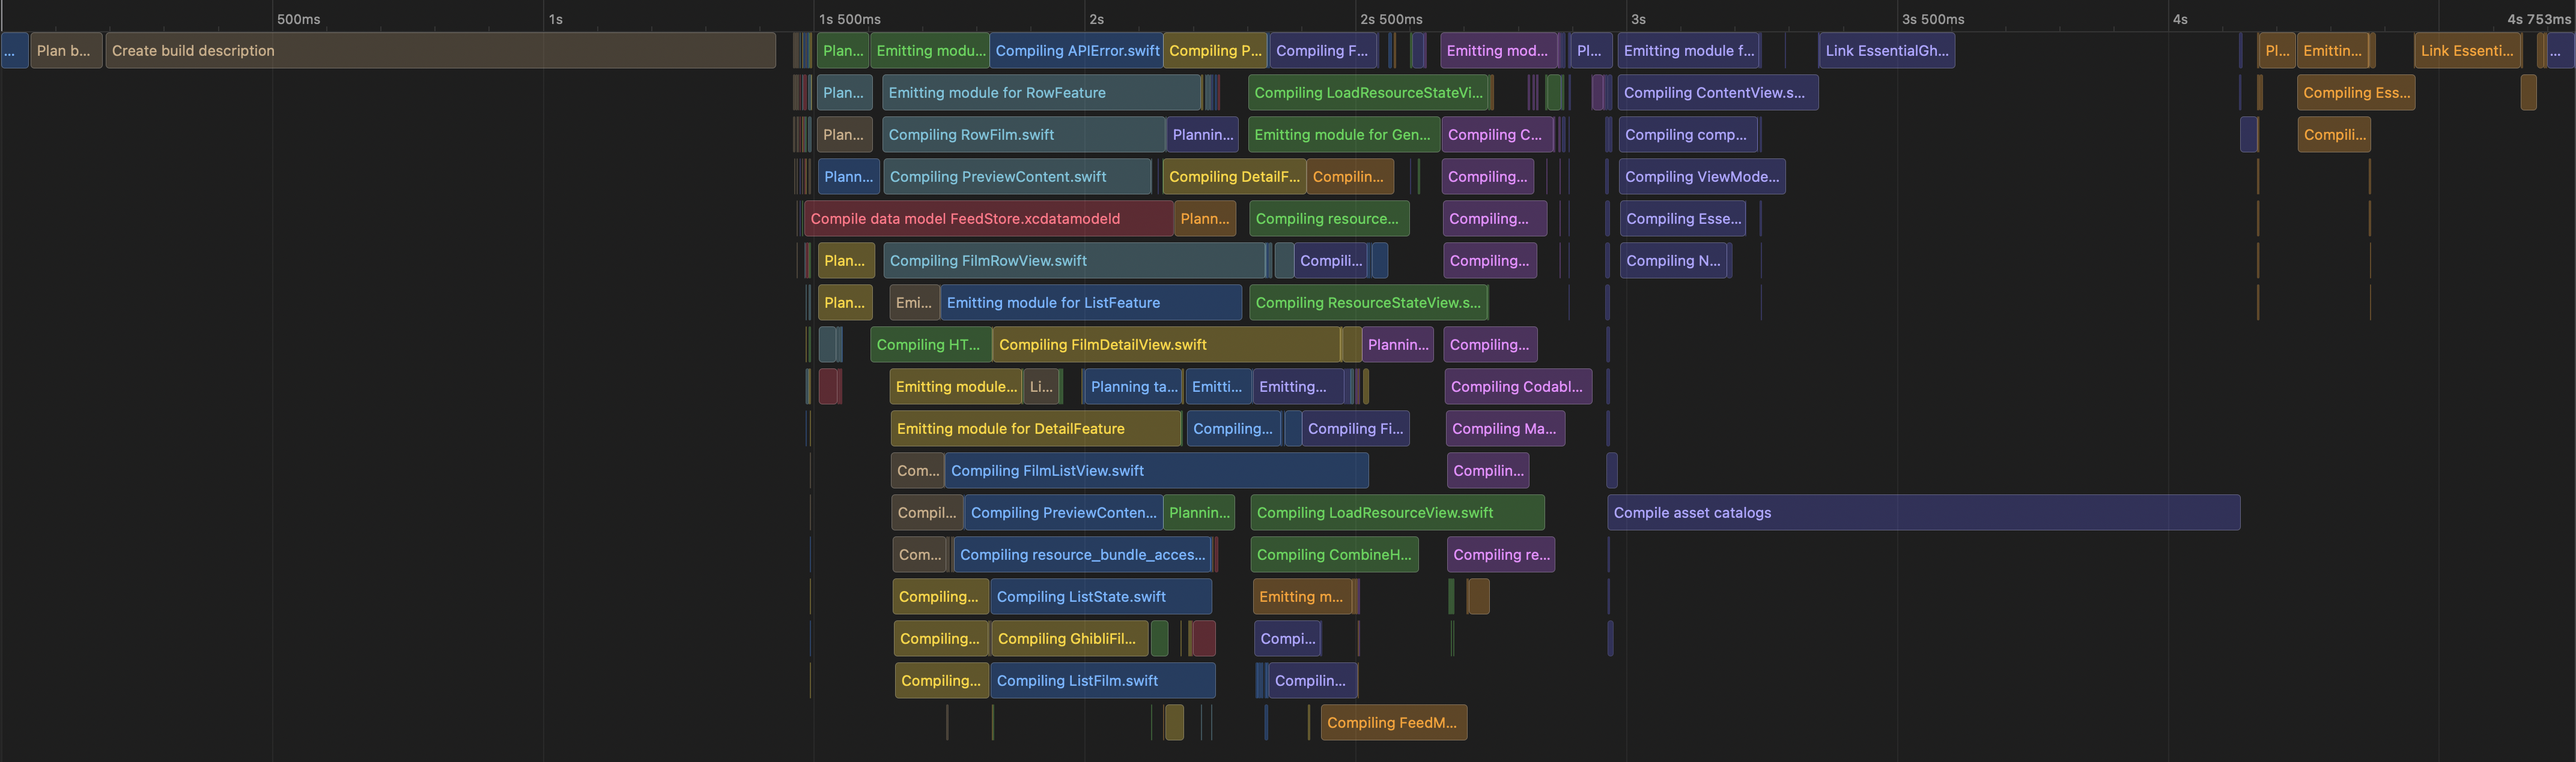
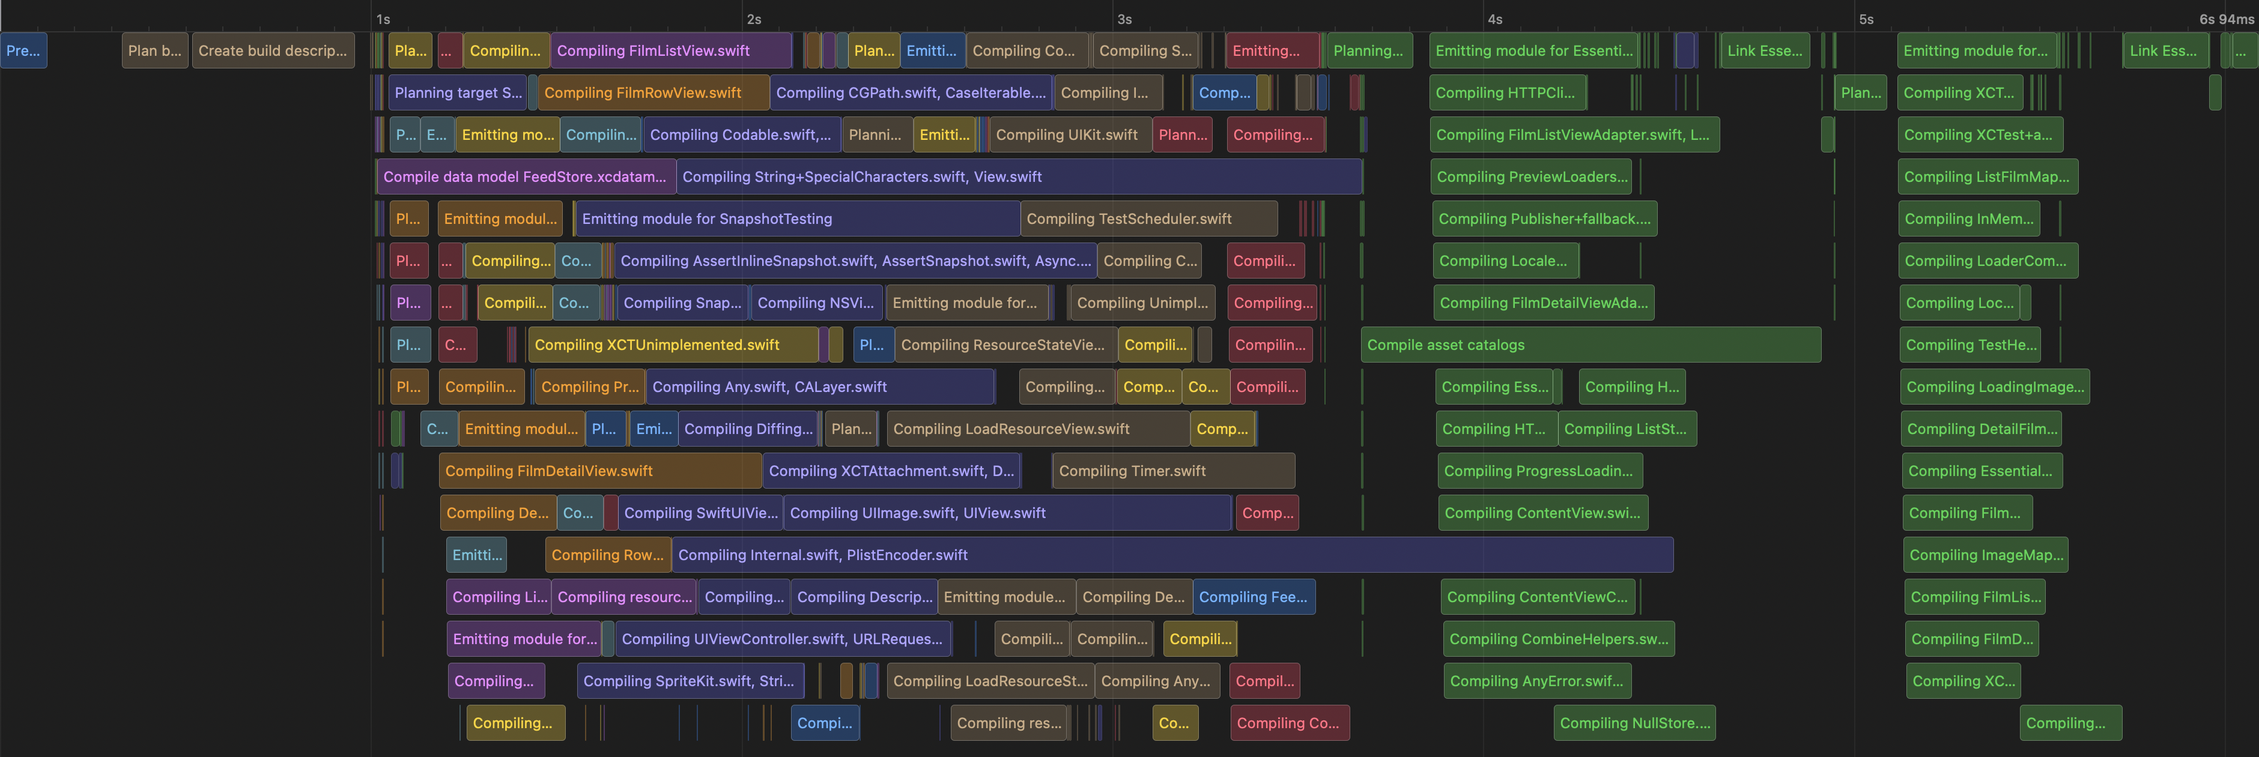
update build timeline image, remove timeline center image

diff --git a/App/EssentialGhibli/EssentialGhibliApp.swift b/App/EssentialGhibli/EssentialGhibliApp.swift
@@ -17,8 +17,7 @@ struct EssentialGhibliApp: App {
     
     var body: some Scene {
         WindowGroup {
-            UIComposer(loader: .online)
-            // ContentViewComposer()
+            UIComposer(loader: .init())
         }
     }
 }

diff --git a/README.md b/README.md
@@ -26,8 +26,6 @@ Modules dependency done right significantly reduces build time. This project is 
 
 ![Xcode project clean build timeline](./Docs/build_timeline.png)
 
-![Xcode project clean build timeline: center](./Docs/build_timeline_center.png)
-
 ![CPU](./Docs/cpu.png)
 
 ### Composition
